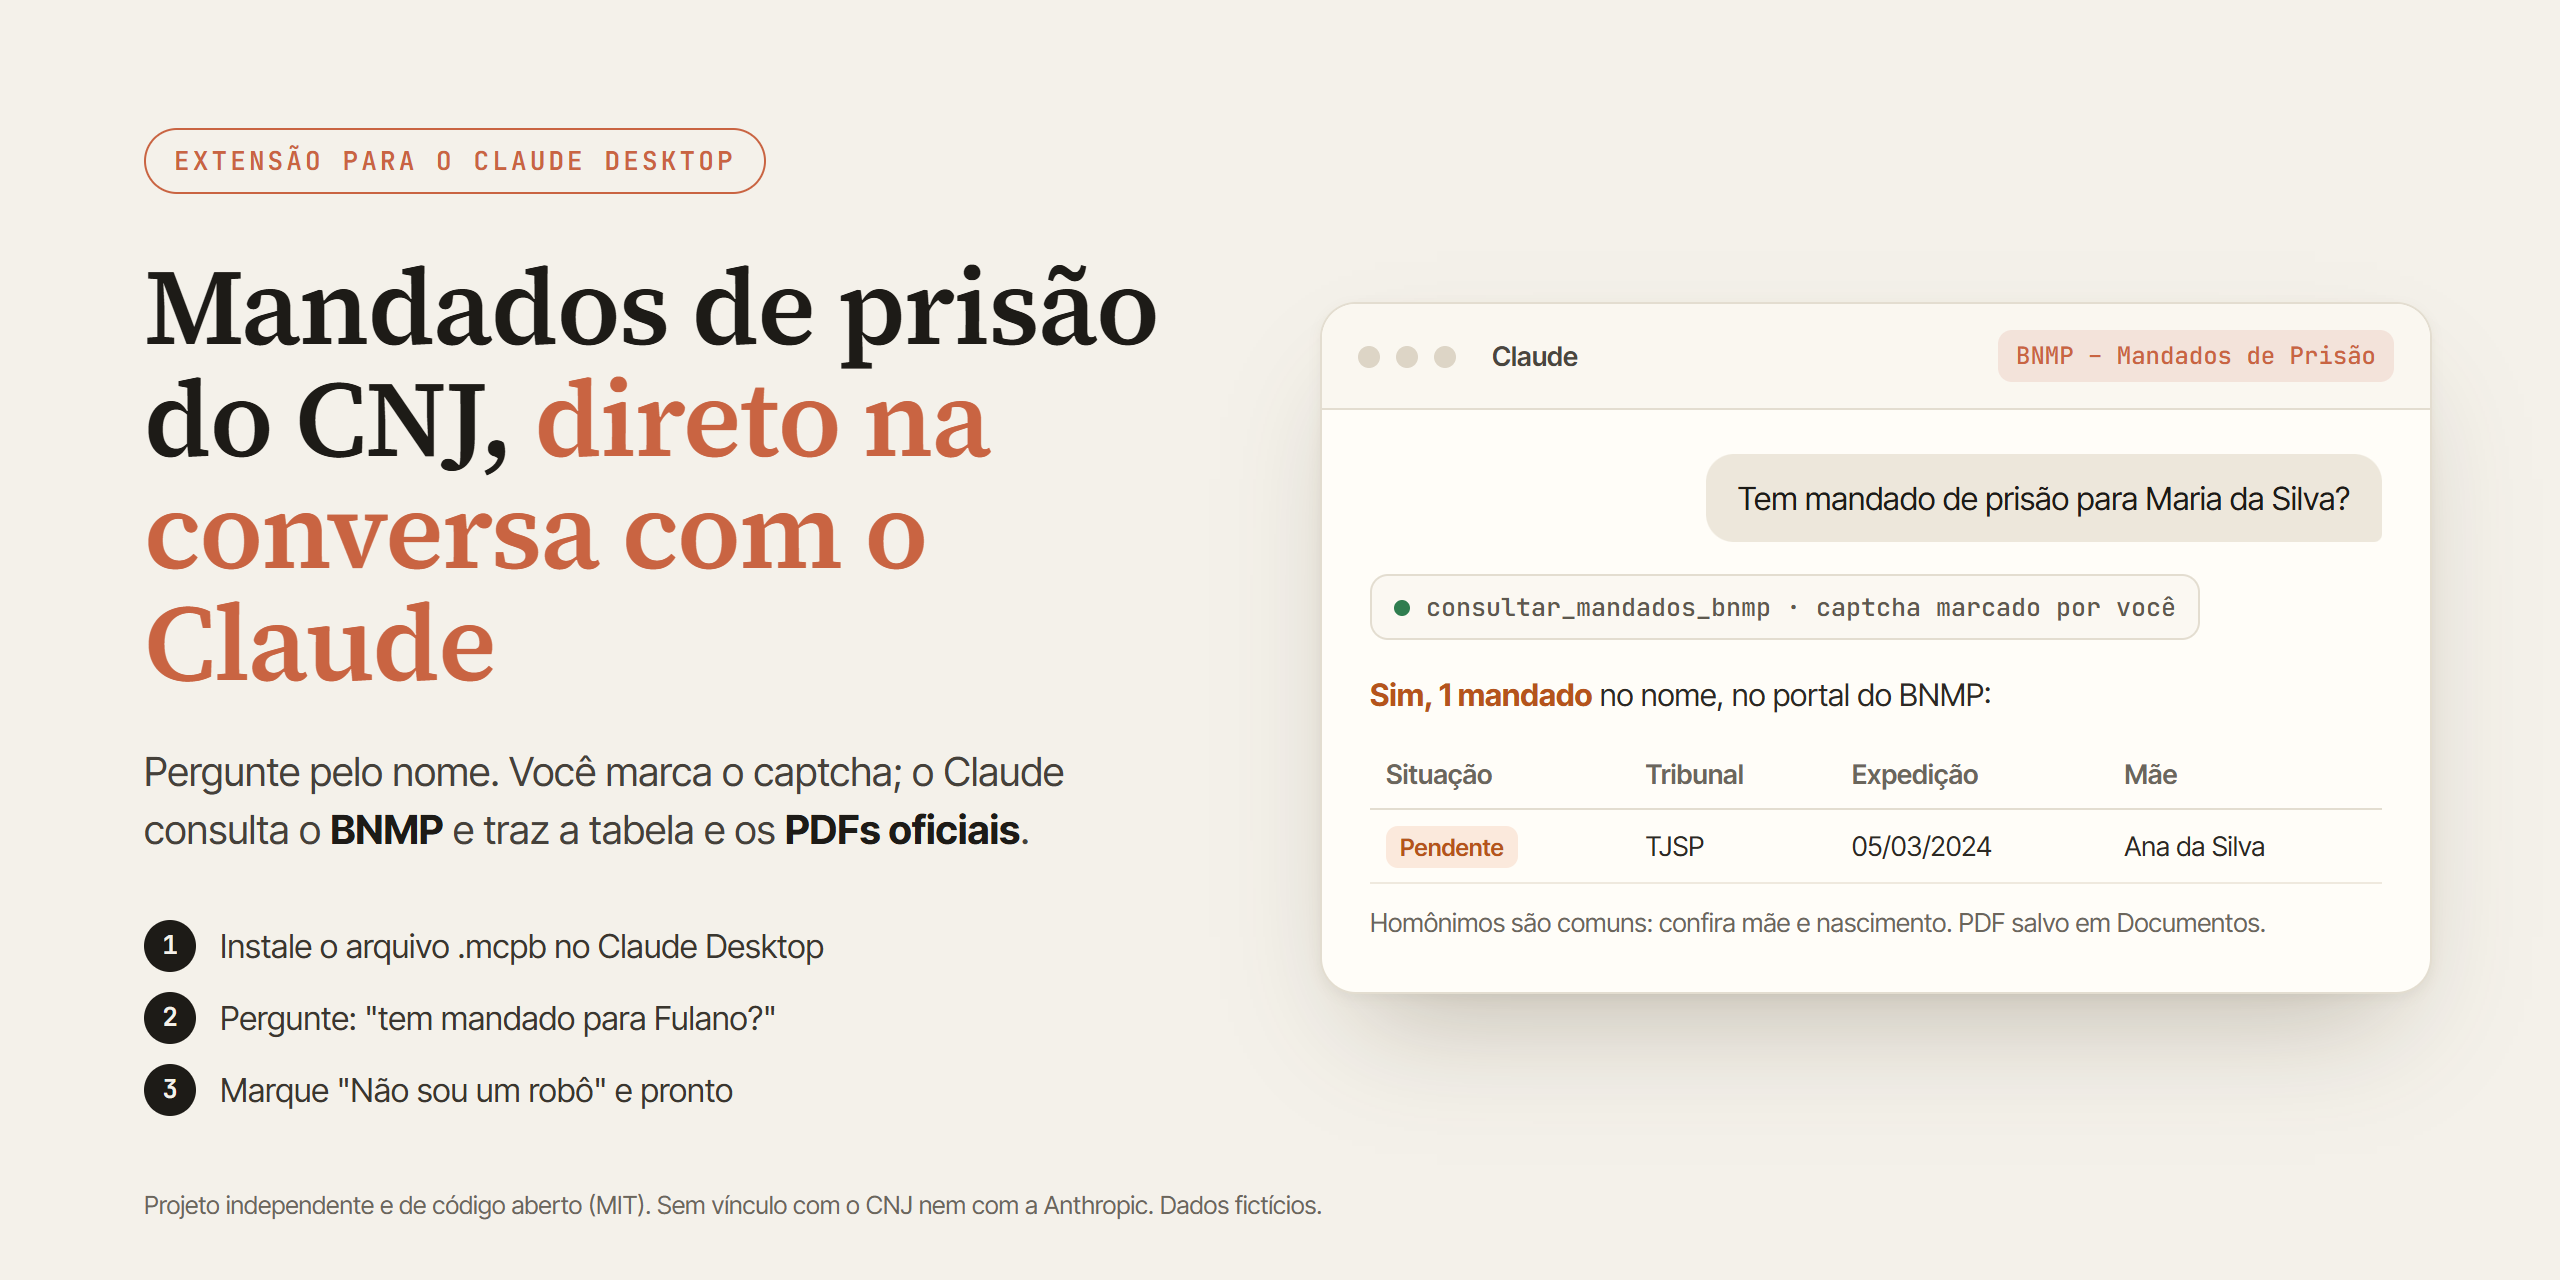
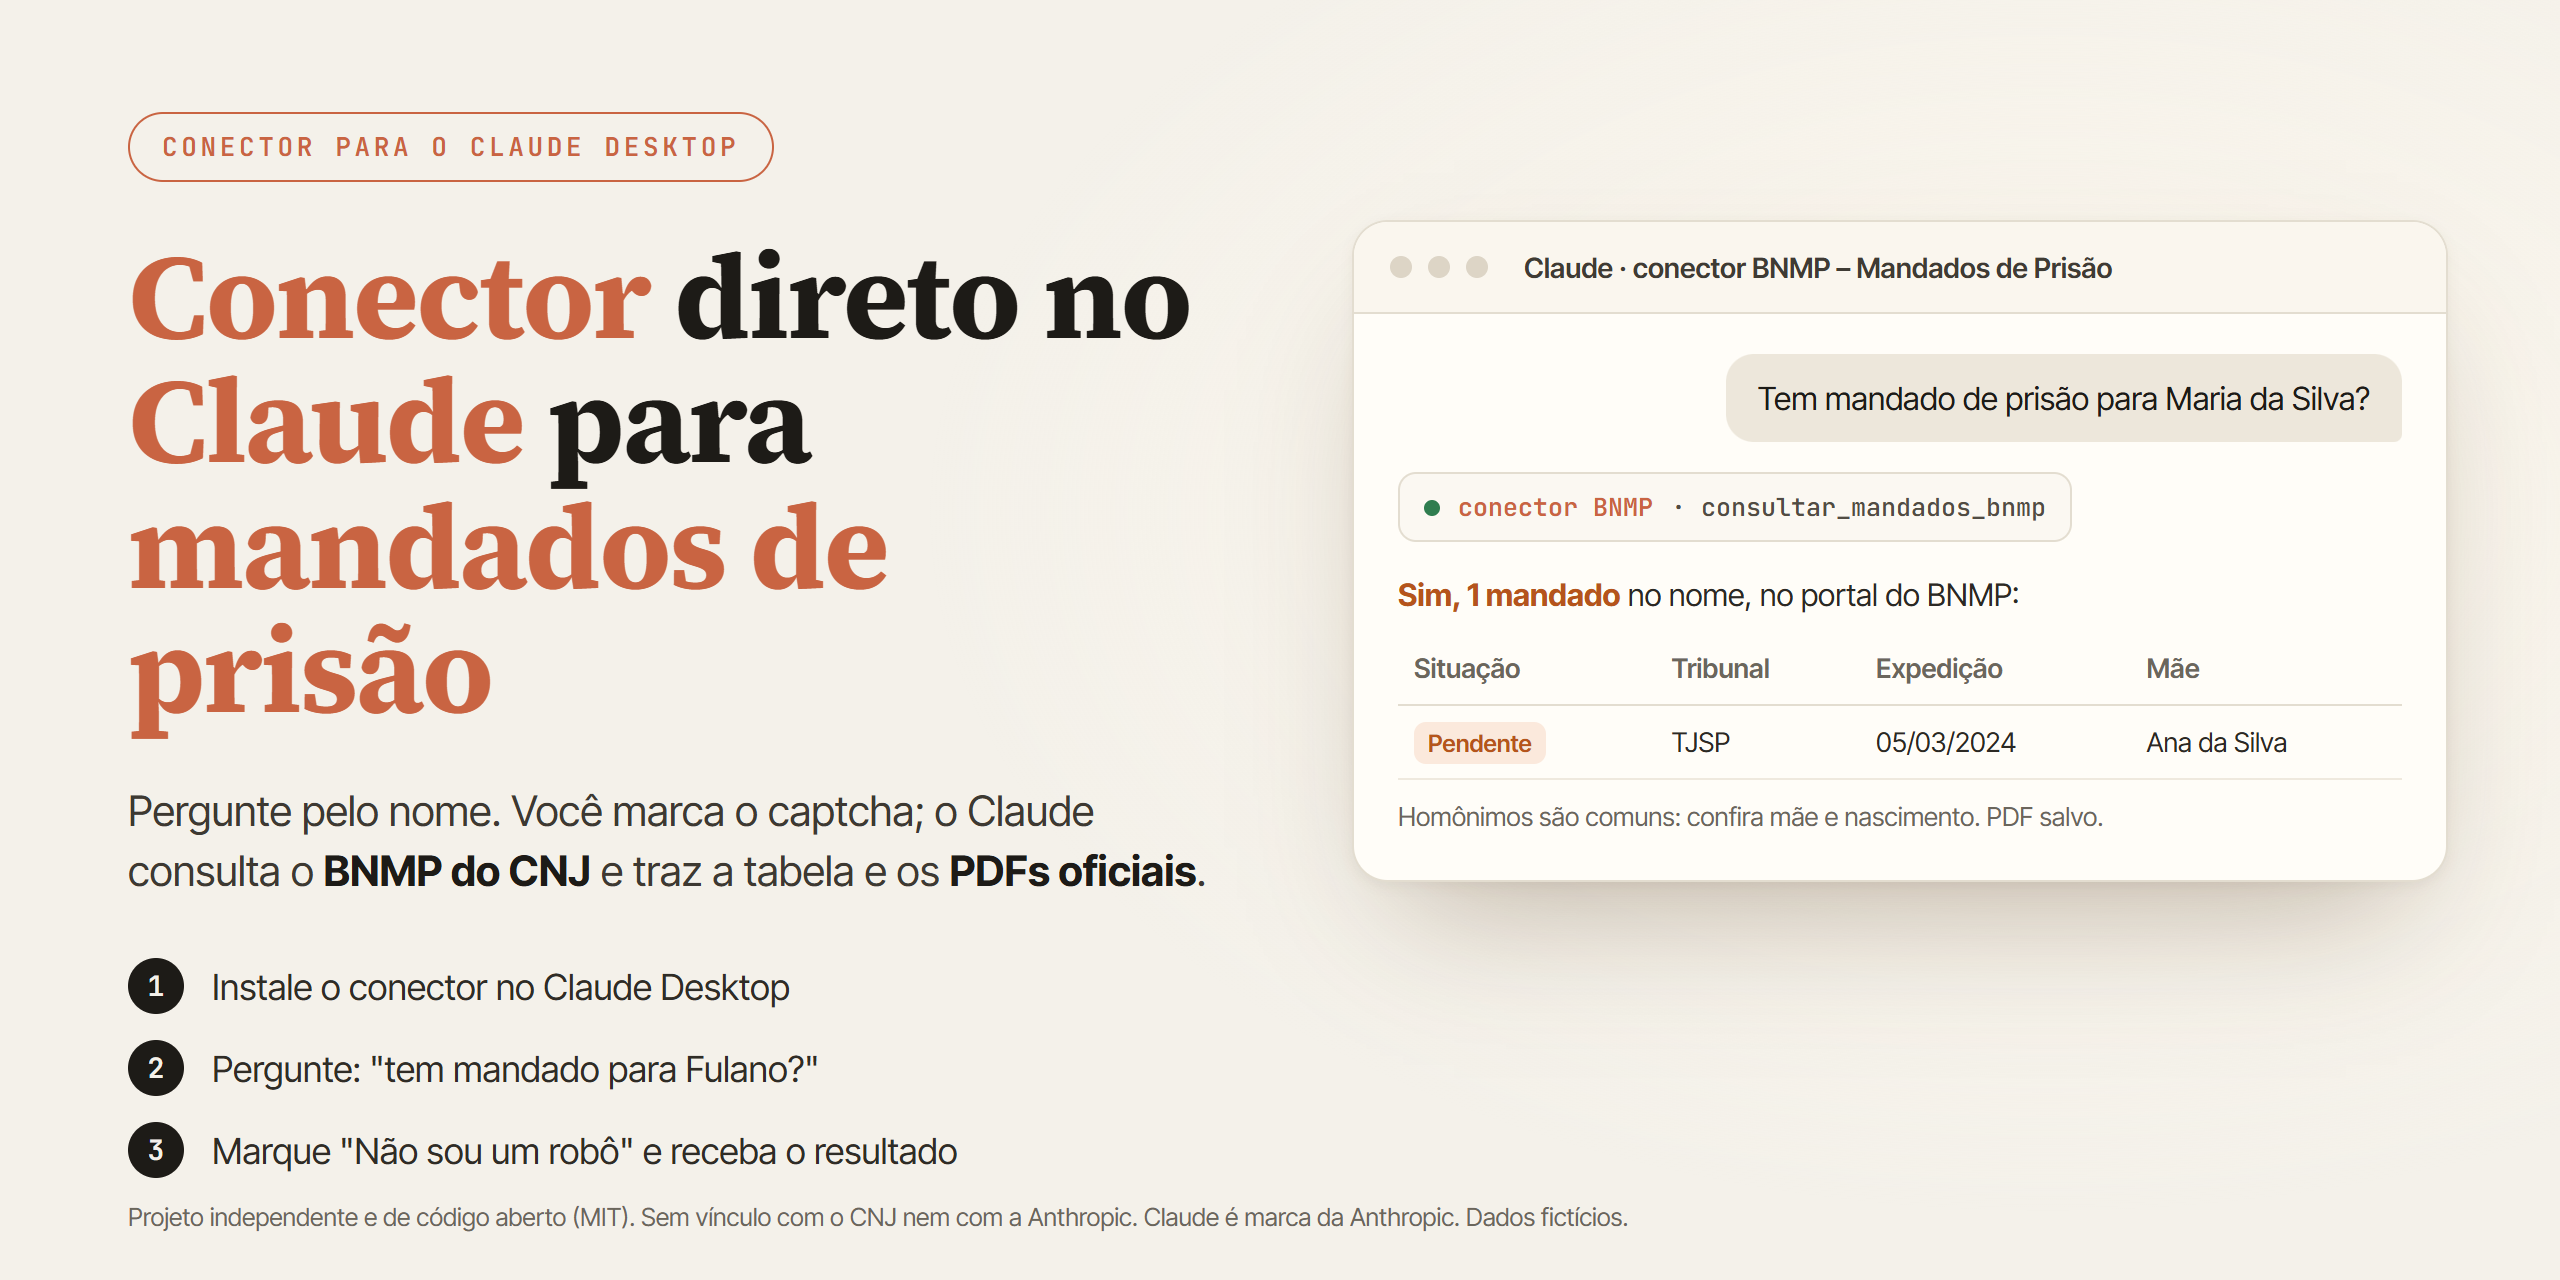
Capa e README: deixar claro que é um conector do Claude

diff --git a/docs/capa.html b/docs/capa.html
@@ -2,78 +2,79 @@
 <html lang="pt-BR">
 <head>
 <meta charset="utf-8">
-<link href="https://fonts.googleapis.com/css2?family=Inter+Tight:wght@400;500;600;700;800&family=JetBrains+Mono:wght@500;600&family=Source+Serif+4:wght@500;600&display=swap" rel="stylesheet">
+<link href="https://fonts.googleapis.com/css2?family=Inter+Tight:wght@400;500;600;700&family=JetBrains+Mono:wght@500;600&family=Source+Serif+4:wght@600;700&display=swap" rel="stylesheet">
 <style>
   :root {
     --bg: #f4f1ea; --paper: #fffdf8; --ink: #1d1b17; --muted: #6b665c; --line: #e3ddd0;
-    --clay: #c96442; --clay-soft: #f3e3da; --ok: #2f7d4f; --warn: #b5541c;
+    --clay: #c96442; --orange: #e8742a; --orange-d: #b8551a; --orange-l: #f59a52; --ok: #2f7d4f; --warn: #b5541c;
   }
   * { box-sizing: border-box; margin: 0; padding: 0; }
-  html, body { width: 1280px; height: 640px; overflow: hidden; background: var(--bg); }
-  body { font-family: 'Inter Tight', sans-serif; color: var(--ink); position: relative; }
-  .wrap { position: absolute; inset: 0; display: grid; grid-template-columns: 540px 1fr; gap: 48px; padding: 64px 64px 56px 72px; }
+  html, body { width: 1280px; height: 640px; overflow: hidden; }
+  body { font-family: 'Inter Tight', sans-serif; color: var(--ink); position: relative;
+    background: radial-gradient(800px 500px at 80% 40%, #fbf6ec, transparent 70%), var(--bg); }
 
-  .eyebrow { display: inline-flex; align-items: center; gap: 10px; font: 600 13px/1 'JetBrains Mono', monospace;
-    letter-spacing: .12em; text-transform: uppercase; color: var(--clay);
-    padding: 9px 14px; border: 1.5px solid var(--clay); border-radius: 999px; }
-  h1 { margin-top: 28px; font: 600 54px/1.04 'Source Serif 4', serif; letter-spacing: -.015em; }
-  h1 em { font-style: normal; color: var(--clay); }
-  .sub { margin-top: 22px; font-size: 20px; line-height: 1.45; color: #45413a; max-width: 480px; }
+  .left { position: absolute; left: 64px; top: 56px; width: 560px; }
+  .eyebrow { display: inline-block; font: 600 13px/1 'JetBrains Mono', monospace; letter-spacing: .14em; text-transform: uppercase;
+    color: var(--clay); padding: 10px 16px; border: 1.5px solid var(--clay); border-radius: 999px; }
+  h1 { margin-top: 26px; font: 700 60px/1.04 'Source Serif 4', serif; letter-spacing: -.018em; }
+  h1 .c { color: var(--clay); }
+  .sub { margin-top: 24px; font-size: 21px; line-height: 1.45; color: #3d3932; }
   .sub b { color: var(--ink); }
-  .steps { margin-top: 30px; display: grid; gap: 10px; }
-  .step { display: flex; gap: 12px; align-items: center; font-size: 16.5px; color: #3a362f; }
-  .step span { width: 26px; height: 26px; border-radius: 50%; background: var(--ink); color: var(--bg);
-    font: 700 13px/26px 'JetBrains Mono', monospace; text-align: center; flex: none; }
-  .foot { position: absolute; left: 72px; bottom: 30px; font-size: 12.5px; color: var(--muted); }
+  .steps { margin-top: 28px; display: grid; gap: 13px; }
+  .step { display: flex; gap: 14px; align-items: center; font-size: 18px; color: #2f2c26; }
+  .step span { width: 28px; height: 28px; border-radius: 50%; background: var(--ink); color: var(--bg);
+    font: 700 14px/28px 'JetBrains Mono', monospace; text-align: center; flex: none; }
+  .foot { position: absolute; left: 64px; bottom: 24px; font-size: 12.5px; color: var(--muted); }
 
-  .app { align-self: center; background: var(--paper); border: 1px solid var(--line); border-radius: 18px;
-    box-shadow: 0 30px 60px -20px rgba(60,45,20,.28), 0 2px 6px rgba(60,45,20,.06); overflow: hidden; }
-  .bar { display: flex; align-items: center; gap: 8px; padding: 13px 18px; border-bottom: 1px solid var(--line); background: #faf7f0; }
+  .app { position: absolute; left: 676px; top: 110px; width: 548px; background: var(--paper); border: 1px solid var(--line);
+    border-radius: 18px; box-shadow: 0 34px 70px -24px rgba(70,45,15,.32), 0 2px 6px rgba(60,45,20,.06); overflow: hidden; }
+  .bar { display: flex; align-items: center; gap: 8px; padding: 14px 18px; border-bottom: 1px solid var(--line); background: #faf6ee; }
   .bar i { width: 11px; height: 11px; border-radius: 50%; background: #ddd5c6; }
-  .bar b { margin-left: 10px; font: 600 13.5px 'Inter Tight'; color: #4a463e; }
-  .bar small { margin-left: auto; font: 500 12px 'JetBrains Mono', monospace; color: var(--clay);
-    background: var(--clay-soft); padding: 5px 9px; border-radius: 7px; }
-  .chat { padding: 22px 24px 24px; display: grid; gap: 16px; }
-  .me { justify-self: end; background: #ede7db; padding: 12px 16px; border-radius: 14px 14px 4px 14px; font-size: 16px; max-width: 80%; }
-  .tool { display: inline-flex; gap: 8px; align-items: center; font: 500 12.5px 'JetBrains Mono', monospace; color: #5d584e;
-    border: 1px solid var(--line); border-radius: 9px; padding: 7px 11px; background: #fbf8f2; justify-self: start; }
+  .bar b { margin-left: 10px; font: 600 14px 'Inter Tight'; color: #3f3b34; }
+  .chat { padding: 20px 22px 22px; display: grid; gap: 15px; }
+  .me { justify-self: end; background: #ede7db; padding: 12px 16px; border-radius: 14px 14px 4px 14px; font-size: 16px; }
+  .tool { display: inline-flex; gap: 9px; align-items: center; font: 500 12.5px 'JetBrains Mono', monospace; color: #514c43;
+    border: 1px solid var(--line); border-radius: 9px; padding: 8px 12px; background: #fbf8f2; justify-self: start; }
   .tool i { width: 8px; height: 8px; border-radius: 50%; background: var(--ok); }
+  .tool em { font-style: normal; color: var(--clay); font-weight: 600; }
   .ans { font-size: 15.5px; line-height: 1.5; color: #2c2924; }
-  .ans b.sim { color: var(--warn); }
-  table { margin-top: 10px; width: 100%; border-collapse: collapse; font-size: 13.5px; }
+  .ans b { color: var(--warn); }
+  table { margin-top: 8px; width: 100%; border-collapse: collapse; font-size: 13.5px; }
   th { text-align: left; font-weight: 600; color: var(--muted); padding: 7px 8px; border-bottom: 1px solid var(--line); }
   td { padding: 8px; border-bottom: 1px solid #efe9de; }
   .tag { font-size: 12px; font-weight: 600; color: var(--warn); background: #fbe9dc; padding: 3px 7px; border-radius: 6px; }
-  .note { margin-top: 10px; font-size: 13px; color: var(--muted); }
+  .note { margin-top: 9px; font-size: 13px; color: var(--muted); }
+
+  svg { position: absolute; overflow: visible; }
 </style>
 </head>
 <body>
-<div class="wrap">
-  <div>
-    <div class="eyebrow">Extensão para o Claude Desktop</div>
-    <h1>Mandados de prisão do CNJ, <em>direto na conversa com o Claude</em></h1>
-    <p class="sub">Pergunte pelo nome. Você marca o captcha; o Claude consulta o <b>BNMP</b> e traz a tabela e os <b>PDFs oficiais</b>.</p>
-    <div class="steps">
-      <div class="step"><span>1</span>Instale o arquivo .mcpb no Claude Desktop</div>
-      <div class="step"><span>2</span>Pergunte: "tem mandado para Fulano?"</div>
-      <div class="step"><span>3</span>Marque "Não sou um robô" e pronto</div>
-    </div>
+<div class="left">
+  <div class="eyebrow">Conector para o Claude Desktop</div>
+  <h1><span class="c">Conector</span> direto no <span class="c">Claude</span> para <span class="c">mandados de prisão</span></h1>
+  <p class="sub">Pergunte pelo nome. Você marca o captcha; o Claude consulta o <b>BNMP do CNJ</b> e traz a tabela e os <b>PDFs oficiais</b>.</p>
+  <div class="steps">
+    <div class="step"><span>1</span>Instale o conector no Claude Desktop</div>
+    <div class="step"><span>2</span>Pergunte: "tem mandado para Fulano?"</div>
+    <div class="step"><span>3</span>Marque "Não sou um robô" e receba o resultado</div>
   </div>
-  <div class="app">
-    <div class="bar"><i></i><i></i><i></i><b>Claude</b><small>BNMP – Mandados de Prisão</small></div>
-    <div class="chat">
-      <div class="me">Tem mandado de prisão para Maria da Silva?</div>
-      <div class="tool"><i></i>consultar_mandados_bnmp · captcha marcado por você</div>
-      <div class="ans"><b class="sim">Sim, 1 mandado</b> no nome, no portal do BNMP:
-        <table>
-          <tr><th>Situação</th><th>Tribunal</th><th>Expedição</th><th>Mãe</th></tr>
-          <tr><td><span class="tag">Pendente</span></td><td>TJSP</td><td>05/03/2024</td><td>Ana da Silva</td></tr>
-        </table>
-        <div class="note">Homônimos são comuns: confira mãe e nascimento. PDF salvo em Documentos.</div>
-      </div>
+</div>
+
+<div class="app">
+  <div class="bar"><i></i><i></i><i></i><b>Claude · conector BNMP – Mandados de Prisão</b></div>
+  <div class="chat">
+    <div class="me">Tem mandado de prisão para Maria da Silva?</div>
+    <div class="tool"><i></i><em>conector BNMP</em> · consultar_mandados_bnmp</div>
+    <div class="ans"><b>Sim, 1 mandado</b> no nome, no portal do BNMP:
+      <table>
+        <tr><th>Situação</th><th>Tribunal</th><th>Expedição</th><th>Mãe</th></tr>
+        <tr><td><span class="tag">Pendente</span></td><td>TJSP</td><td>05/03/2024</td><td>Ana da Silva</td></tr>
+      </table>
+      <div class="note">Homônimos são comuns: confira mãe e nascimento. PDF salvo.</div>
     </div>
   </div>
 </div>
-<div class="foot">Projeto independente e de código aberto (MIT). Sem vínculo com o CNJ nem com a Anthropic. Dados fictícios.</div>
+
+<div class="foot">Projeto independente e de código aberto (MIT). Sem vínculo com o CNJ nem com a Anthropic. Claude é marca da Anthropic. Dados fictícios.</div>
 </body>
 </html>

diff --git a/README.md b/README.md
@@ -1,5 +1,5 @@
 <p align="center">
-  <img src="docs/capa.png" alt="BNMP – Mandados de Prisão: extensão para o Claude Desktop" width="100%">
+  <img src="docs/capa.png" alt="Conector BNMP – Mandados de Prisão para o Claude Desktop" width="100%">
 </p>
 
 <p align="center">
@@ -15,7 +15,7 @@
 
 O **BNMP** (Banco Nacional de Medidas Penais e Prisões, do CNJ) é a fonte oficial dos mandados de prisão expedidos por todos os tribunais do Brasil. É público, mas foi feito para consulta manual: uma tela, um captcha, uma pessoa de cada vez.
 
-Esta **extensão para o Claude Desktop** coloca o BNMP dentro da conversa:
+Este **conector do Claude Desktop** coloca o BNMP dentro da conversa. (No Claude Desktop, conectores locais como este são instalados como **extensões**, por isso o arquivo é um `.mcpb`.)
 
 > **Você:** Tem mandado de prisão para Maria da Silva? Baixa os PDFs.
 >
